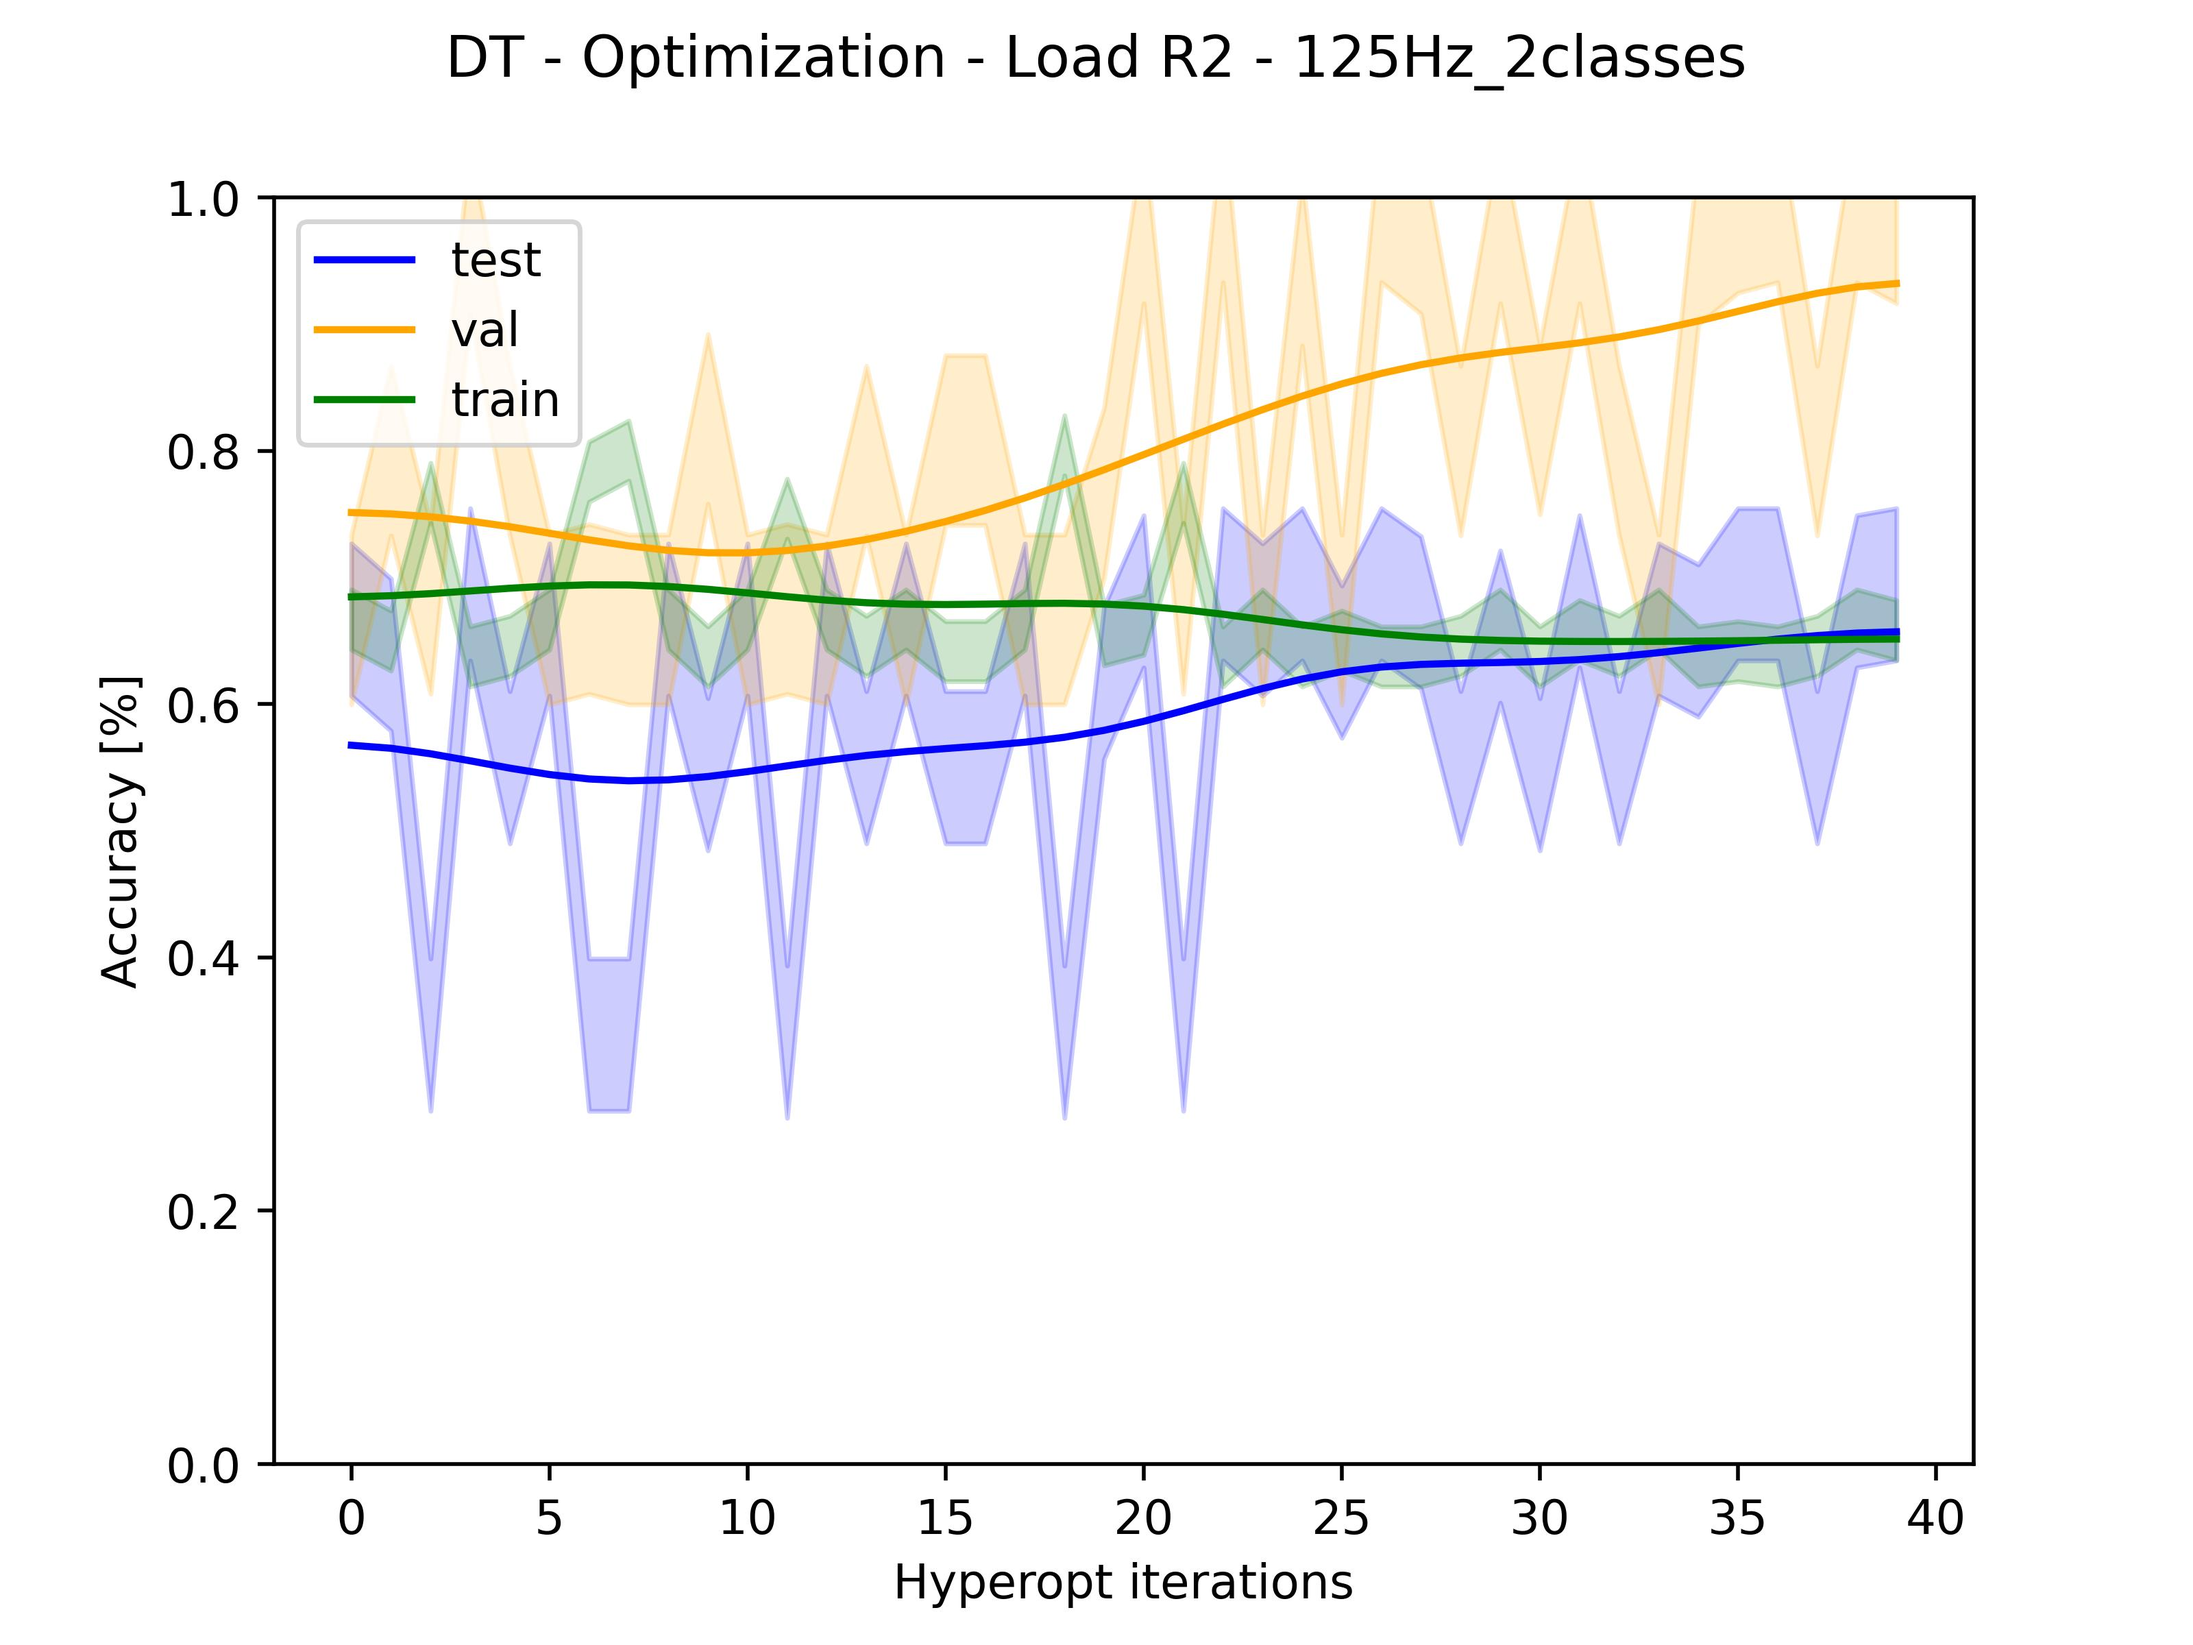
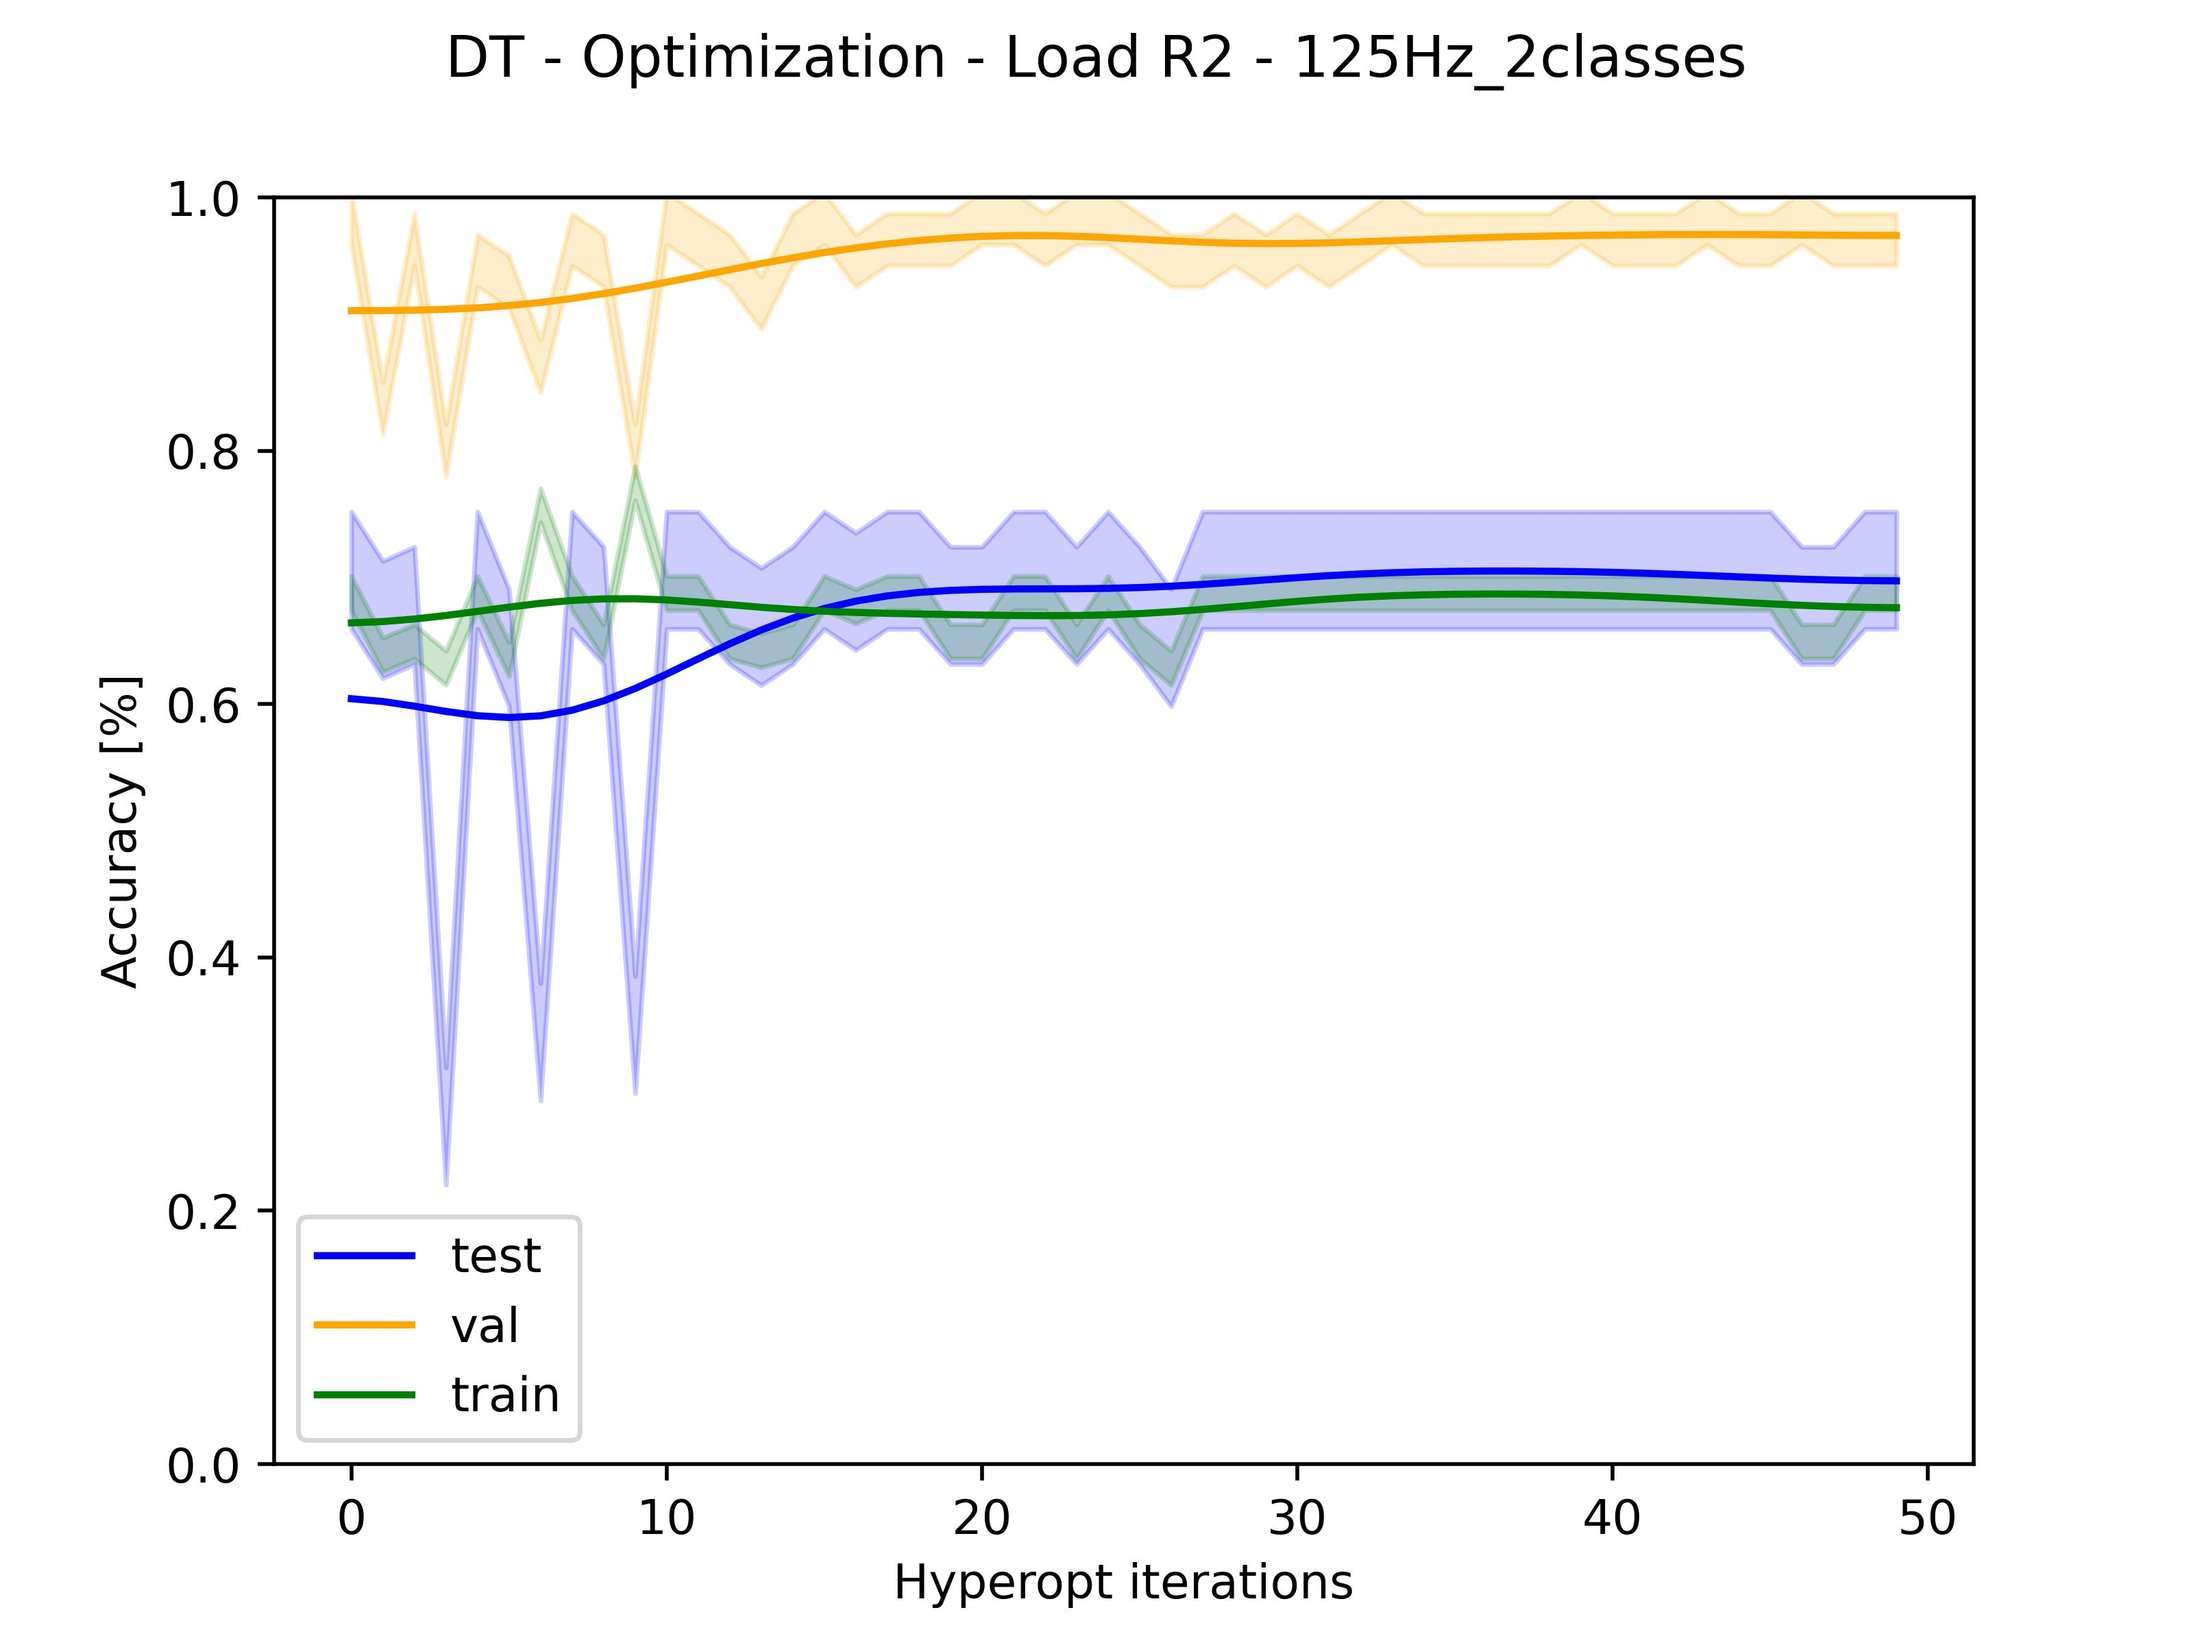
update

diff --git a/optimizers2.py b/optimizers2.py
@@ -22,7 +22,7 @@ seed_value = 42
 random.seed(seed_value)
 label_encoder = LabelEncoder()
 
-max_evals_dt = 20
+max_evals_dt = 1000
 max_evals_knn = 500
 max_evals_lr = 500
 path_res = 'results2'
@@ -59,7 +59,7 @@ def f(params):
 
     return {'loss': 1 - round(acc_returned, 3), 'status': STATUS_OK}
 """
-
+"""
 def fold_for_f(real_loads, dataTrainVal, features_names):
 
     groups_indixes = []
@@ -72,18 +72,60 @@ def fold_for_f(real_loads, dataTrainVal, features_names):
         groups_indixes.append(indexes)
 
     x_opt = pd.DataFrame(columns=features_names)
+    #x_opt = np.empty(len(groups_indixes), dtype=object)
+    #x_opt = []
     y_opt = []
     indexes_cols_features = [dataTrainVal.columns.get_loc(column_name) for column_name in features_names]
 
     for single_group_indixes in groups_indixes:
         x_values = dataTrainVal.iloc[single_group_indixes, indexes_cols_features]
         x_opt = pd.concat([x_opt, x_values], ignore_index=True)
+        #x_opt.append(np.array(x_values))
+        #x_opt[groups_indixes.index(single_group_indixes)] = np.array(x_values)
         y_values = dataTrainVal.iloc[single_group_indixes, max(indexes_cols_features)+1]
+        y_opt.extend(y_values)
+
+    #x_opt = pd.Series(x_opt)
+    y_opt = pd.Series(y_opt)
+
+    print(f'Len X (= n_groups): {len(x_opt)} - Len Y: {len(y_opt)}')
+
+    return x_opt, y_opt
+"""
+def fold_for_f(real_loads, dataTrainVal, features_names, n_loads_to_use=2, n_examples_for_load=20):
+    groups_indices = []
+
+    random.shuffle(real_loads)
+    selected_real_loads = real_loads[:n_loads_to_use]
+    print('Loads for GroupKFold: ', selected_real_loads)
+
+    for real_load in selected_real_loads:
+        indexes = dataTrainVal[dataTrainVal['name_signal'].str.contains(real_load)].index.to_list()
+        for ind in range(len(indexes)):
+            if indexes[ind] > 0:
+                indexes[ind] -= 1
+        if n_examples_for_load <= len(indexes):
+            indexes = random.sample(indexes, n_examples_for_load)
+        groups_indices.append(indexes)
+
+    x_opt = pd.DataFrame(columns=features_names)
+    y_opt = []
+
+    indexes_cols_features = [dataTrainVal.columns.get_loc(column_name) for column_name in features_names]
+
+    for single_group_indices in groups_indices:
+        x_values = dataTrainVal.iloc[single_group_indices, indexes_cols_features]
+        x_opt = pd.concat([x_opt, x_values], ignore_index=True)
+        y_values = dataTrainVal.iloc[single_group_indices, max(indexes_cols_features) + 1]
         y_opt.extend(y_values)
 
     y_opt = pd.Series(y_opt)
 
-    return x_opt, y_opt
+    n_groups = n_loads_to_use
+    print(f'Len X: {len(x_opt)} - Len Y: {len(y_opt)} - n_groups: {n_groups}')
+
+    return x_opt, y_opt, n_groups
+
 
 def f(params):
     if alg == 'DT':
@@ -96,17 +138,20 @@ def f(params):
         else:
             model = LogisticRegression(**params)
 
-    n_groups = len(x_opt)
     kf = model_selection.GroupKFold(n_splits=n_groups)
 
     groups = []
-    for group_number in range(n_groups):
-        groups.extend([group_number])
+    count = 0
+    for group_number in range(len(x_opt)):
+        groups.extend([count])
+        if group_number % n_groups ==0:
+            count +=1
 
     accuracy_val = 0
     for idx in kf.split(X=x_opt, y=y_opt, groups=groups):
         train_idx, test_idx = idx[0], idx[1]
         x_train_split = x_opt.iloc[train_idx]
+
         y_train_split = y_opt.iloc[train_idx]
 
         x_test_split = x_opt.iloc[test_idx]
@@ -114,7 +159,8 @@ def f(params):
 
         model.fit(x_train_split, y_train_split)
         preds_split = model.predict(x_test_split)
-        accuracy_val += metrics.accuracy_score(y_test_split, preds_split)
+        # accuracy_val += metrics.accuracy_score(y_test_split, preds_split)
+        accuracy_val += np.mean(model_selection.cross_val_score(model, x_opt, y_opt, cv=n_groups))
     
     accuracy_val = accuracy_val / kf.n_splits
     accuracies_val_opt.append(accuracy_val)
@@ -144,9 +190,9 @@ loads = ['R1', 'R2', 'R3',
 params_space = [
     {
         'max_depth': hp.randint('max_depth', 1, 101),
-        'max_features': hp.uniform('max_features', 0.001, 1)
-        #'min_samples_split': hp.uniform('min_samples_split', 0.0, 0.5),
-        #'min_weight_fraction_leaf': hp.uniform('min_weight_fraction_leaf', 0.0, 0.5),
+        'max_features': hp.uniform('max_features', 0.001, 1),
+        'min_samples_split': hp.uniform('min_samples_split', 0.0, 0.5),
+        'min_weight_fraction_leaf': hp.uniform('min_weight_fraction_leaf', 0.0, 0.5)
         #'min_samples_leaf': hp.uniform('min_samples_leaf', 0.0, 0.5)
     }, {
         'n_neighbors': hp.randint('n_neighbors', 1, 100),
@@ -230,7 +276,7 @@ for alg in algorithms:
                 accuracies_train_opt = []
                 accuracies_weighted = []
 
-                x_opt, y_opt = fold_for_f(real_loads, dataTrainVal, features_names)
+                x_opt, y_opt, n_groups = fold_for_f(real_loads, dataTrainVal, features_names)
 
                 trials = Trials()
                 best = fmin(f, params_space[algorithms.index(alg)], algo=atpe.suggest, max_evals=max_evals, rstate=np.random.default_rng(0),
